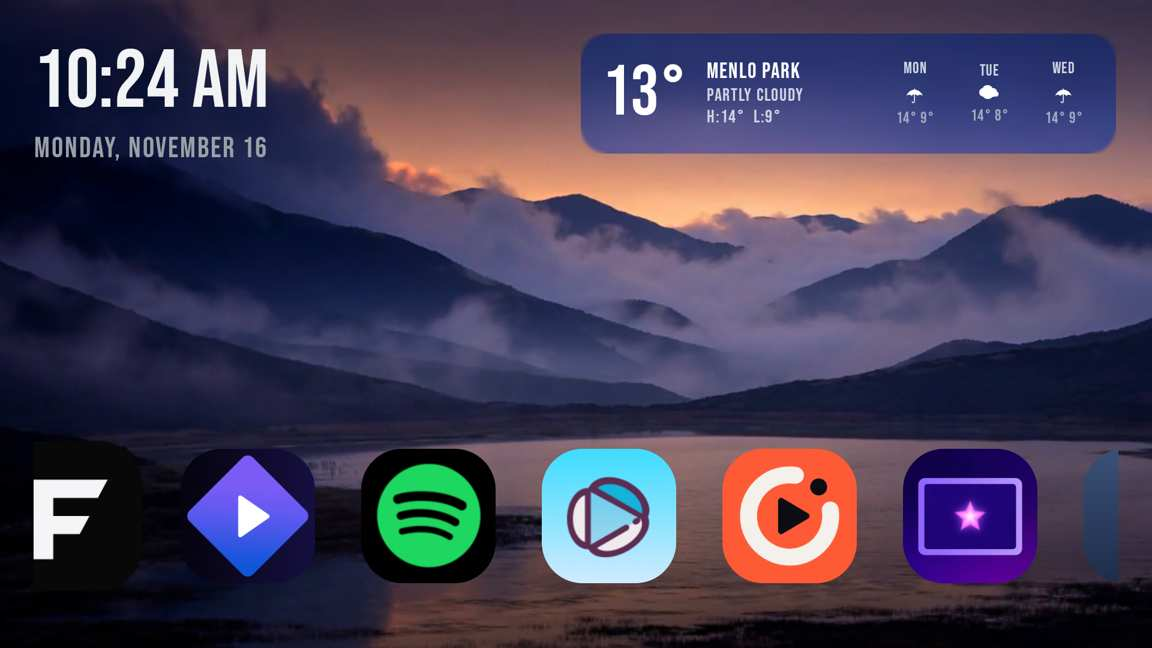
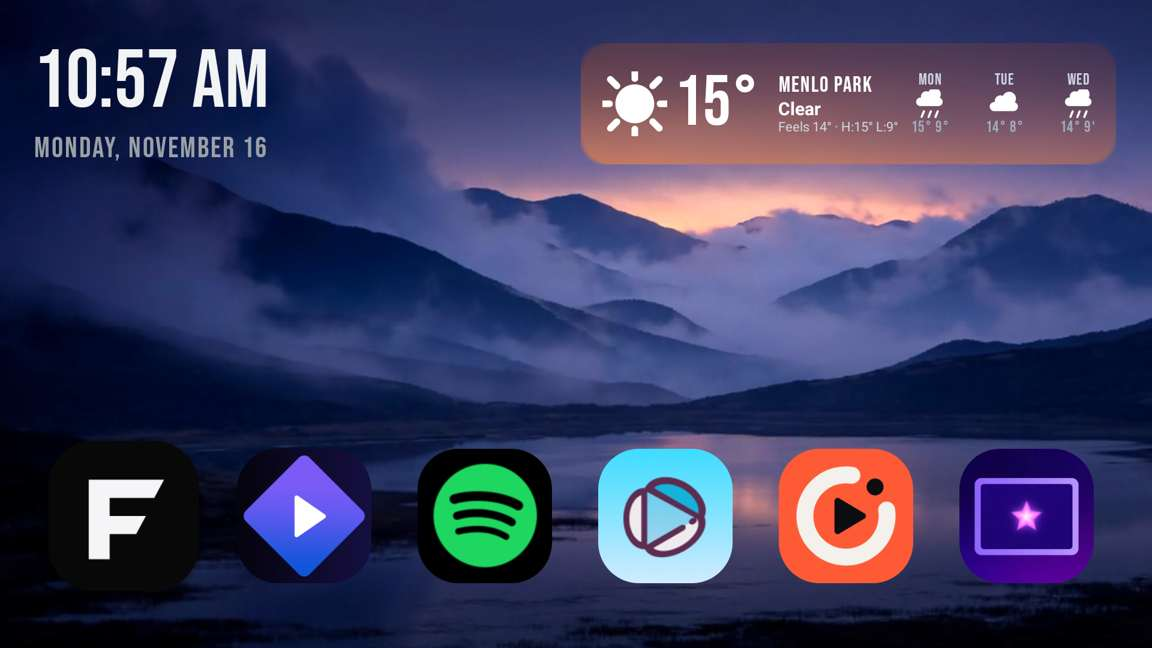
Weather widget: iPhone-style content, card height matched to clock

diff --git a/app/src/main/java/com/hodor/launcher/widgets/WeatherWidget.java b/app/src/main/java/com/hodor/launcher/widgets/WeatherWidget.java
@@ -36,21 +36,24 @@ import java.util.Locale;
 /**
  * Weather widget — a self-contained bundle. It queries Open-Meteo
  * itself (no API key), on its own thread, every 30 minutes while the
- * launcher is in the foreground, and renders a frosted card: big
- * temperature, place / condition / hi-lo, then three forecast
- * columns. On any fetch failure it simply keeps the last good data
- * on screen.
+ * launcher is in the foreground, and renders a frosted card: a
+ * pictogram and big temperature, place / condition / feels-like,
+ * then three forecast columns. On any fetch failure it simply
+ * keeps the last good data on screen.
  *
- * Design (2026-11-16): anchored in the top-right corner
- * itself (the settings gear that used to sit there is now a tile in
- * the overflow section), balancing the clock across the top of the
- * screen.
- * Type is Bebas Neue throughout — the launcher's own face — with the
- * date line's letterspaced caps, so the card reads as part of the
- * launcher. The frost is real: the card's background is a blurred,
- * tinted snapshot of the live background video behind it, refreshed
- * every 15 seconds, edges feathered so the card melts into the
- * scene while staying clearly present.
+ * Design (2026-11-16): anchored in the top-right corner itself
+ * (the settings gear that used to sit there is now a tile in the
+ * overflow section), balancing the clock across the top of the
+ * screen. The content follows the iOS Weather widget's clarity
+ * (reference photo, 2026-11-16): filled white pictograms drawn
+ * on canvas instead of unicode glyphs, the condition in a bold
+ * sans sentence case, and a Feels-like line. Temperature and
+ * place stay Bebas Neue — the launcher's own face — so the card
+ * still reads as part of the launcher. The frost is real: the
+ * card's background is a blurred, tinted snapshot of the live
+ * background video behind it, refreshed every 15 seconds, edges
+ * feathered so the card melts into the scene while staying
+ * clearly present.
  *
  * Occupies 2x1 cells (446x100dp).
  */
@@ -64,7 +67,7 @@ public class WeatherWidget extends Widget {
     private static final long FROST_MS = 15 * 1000L;
     private static final String API =
         "https://api.open-meteo.com/v1/forecast?latitude=" + LAT + "&longitude=" + LON
-        + "&current=temperature_2m,weather_code"
+        + "&current=temperature_2m,apparent_temperature,weather_code"
         + "&daily=temperature_2m_max,temperature_2m_min,weather_code"
         + "&forecast_days=3&timezone=America%2FLos_Angeles";
 
@@ -83,9 +86,10 @@ public class WeatherWidget extends Widget {
     private volatile boolean frostBusy;
 
     private LinearLayout cardView;
+    private WeatherIcon iconView;
     private TextView tempView, placeView, condView, hiloView;
     private final TextView[] dayViews = new TextView[3];
-    private final TextView[] glyphViews = new TextView[3];
+    private final WeatherIcon[] dayIcons = new WeatherIcon[3];
     private final TextView[] rangeViews = new TextView[3];
 
     public WeatherWidget(Context ctx) {
@@ -97,6 +101,17 @@ public class WeatherWidget extends Widget {
     @Override public int colSpan() { return 2; }
     @Override public int rowSpan() { return 1; }
     @Override public int anchor() { return ANCHOR_TOP_RIGHT; }
+
+    // The drawn card frames the clock block's measured glyph
+    // extent (TV frame, 2026-11-16: time glyphs 40.5dp, date
+    // glyphs end 133dp) with ~4dp of air on each side, so the two
+    // header blocks read as one uniform band. (An exact-extent
+    // 93dp card read as shorter than the clock — the frost's
+    // feathered edge eats ~2dp of visible body per side.)
+    // Placement stays cell-based. Re-measure if the clock's
+    // type sizes change.
+    @Override public int topInsetDp() { return 8; }
+    @Override public int heightDp() { return 101; }
 
     // ---- view ------------------------------------------------------
 
@@ -113,7 +128,15 @@ public class WeatherWidget extends Widget {
         card.setBackground(flat);
         cardView = card;
 
+        iconView = new WeatherIcon(ctx);
+        iconView.setLayoutParams(new LinearLayout.LayoutParams(dp(54), dp(54)));
+        card.addView(iconView);
+
         tempView = text("––°", 59, bebas, TEXT);
+        LinearLayout.LayoutParams tempLp = new LinearLayout.LayoutParams(
+            LinearLayout.LayoutParams.WRAP_CONTENT, LinearLayout.LayoutParams.WRAP_CONTENT);
+        tempLp.setMargins(dp(6), 0, 0, 0);
+        tempView.setLayoutParams(tempLp);
         card.addView(tempView);
 
         LinearLayout stack = new LinearLayout(ctx);
@@ -124,10 +147,9 @@ public class WeatherWidget extends Widget {
         stack.setLayoutParams(stackLp);
         placeView = text(PLACE.toUpperCase(Locale.US), 18, bebas, TEXT);
         placeView.setLetterSpacing(0.06f);
-        condView = text(" ", 15, bebas, TEXT_DIM);
-        condView.setLetterSpacing(0.06f);
-        hiloView = text(" ", 15, bebas, TEXT_DIM);
-        hiloView.setLetterSpacing(0.06f);
+        condView = text(" ", 15, Typeface.SANS_SERIF, TEXT);
+        condView.setTypeface(Typeface.SANS_SERIF, Typeface.BOLD);
+        hiloView = text(" ", 11, Typeface.SANS_SERIF, TEXT_DIM);
         stack.addView(placeView);
         stack.addView(condView);
         stack.addView(hiloView);
@@ -149,13 +171,13 @@ public class WeatherWidget extends Widget {
             dayViews[i] = text(" ", 13, bebas, TEXT_DIM);
             dayViews[i].setGravity(Gravity.CENTER);
             dayViews[i].setLetterSpacing(0.06f);
-            glyphViews[i] = text(" ", 19, Typeface.SANS_SERIF, TEXT);
-            glyphViews[i].setGravity(Gravity.CENTER);
+            dayIcons[i] = new WeatherIcon(ctx);
+            dayIcons[i].setLayoutParams(new LinearLayout.LayoutParams(dp(24), dp(24)));
             rangeViews[i] = text(" ", 13, bebas, TEXT_FAINT);
             rangeViews[i].setGravity(Gravity.CENTER);
             rangeViews[i].setLetterSpacing(0.06f);
             col.addView(dayViews[i]);
-            col.addView(glyphViews[i]);
+            col.addView(dayIcons[i]);
             col.addView(rangeViews[i]);
             card.addView(col);
         }
@@ -221,6 +243,7 @@ public class WeatherWidget extends Widget {
             JSONArray min = daily.getJSONArray("temperature_2m_min");
             JSONArray codes = daily.getJSONArray("weather_code");
             final int temp = (int) Math.round(cur.getDouble("temperature_2m"));
+            final int feels = (int) Math.round(cur.getDouble("apparent_temperature"));
             final int code = cur.getInt("weather_code");
             final String[] days = new String[3];
             final int[] his = new int[3], los = new int[3], dayCodes = new int[3];
@@ -234,12 +257,13 @@ public class WeatherWidget extends Widget {
                 dayCodes[i] = codes.getInt(i);
             }
             main.post(() -> {
+                iconView.setCode(code);
                 tempView.setText(temp + "°");
-                condView.setText(condition(code).toUpperCase(Locale.US));
-                hiloView.setText("H:" + his[0] + "°  L:" + los[0] + "°");
+                condView.setText(sentence(condition(code)));
+                hiloView.setText("Feels " + feels + "° · H:" + his[0] + "° L:" + los[0] + "°");
                 for (int i = 0; i < 3; i++) {
                     dayViews[i].setText(days[i]);
-                    glyphViews[i].setText(glyph(dayCodes[i]));
+                    dayIcons[i].setCode(dayCodes[i]);
                     rangeViews[i].setText(his[i] + "° " + los[i] + "°");
                 }
             });
@@ -427,15 +451,115 @@ public class WeatherWidget extends Widget {
         }
     }
 
-    private static String glyph(int code) {
-        switch (code) {
-            case 0: case 1: return "☀";
-            case 95: case 96: case 99: return "⚡";
-            case 71: case 73: case 75: case 77: case 85: case 86: return "❄";
-            case 51: case 53: case 55: case 56: case 57:
-            case 61: case 63: case 65: case 66: case 67:
-            case 80: case 81: case 82: return "☂";
-            default: return "☁";
+    /** "Mainly Clear" -> "Mainly clear" (iOS-widget sentence case). */
+    private static String sentence(String s) {
+        if (s == null || s.length() < 2) return s;
+        return s.substring(0, 1) + s.substring(1).toLowerCase(Locale.US);
+    }
+
+    /**
+     * Filled white weather pictogram, drawn on canvas — the iOS
+     * Weather widget's icon language (sun, cloud, rain, snow,
+     * thunder, fog) instead of unicode glyphs, which rendered thin
+     * and inconsistent at TV distance. Same shapes as the preview
+     * harness's draw_icon.
+     */
+    static class WeatherIcon extends View {
+        private int code = -1;
+        private final Paint fill = new Paint(Paint.ANTI_ALIAS_FLAG);
+        private final Paint stroke = new Paint(Paint.ANTI_ALIAS_FLAG);
+
+        WeatherIcon(Context ctx) {
+            super(ctx);
+            fill.setColor(Color.WHITE);
+            fill.setStyle(Paint.Style.FILL);
+            stroke.setColor(Color.WHITE);
+            stroke.setStyle(Paint.Style.STROKE);
+            stroke.setStrokeCap(Paint.Cap.ROUND);
+        }
+
+        void setCode(int c) {
+            if (c != code) {
+                code = c;
+                invalidate();
+            }
+        }
+
+        @Override
+        protected void onDraw(Canvas canvas) {
+            if (code < 0) return;
+            float s = Math.min(getWidth(), getHeight());
+            float cx = getWidth() / 2f, cy = getHeight() / 2f;
+            switch (code) {
+                case 0:
+                    sun(canvas, cx, cy, s * 0.30f);
+                    break;
+                case 1: case 2:
+                    sun(canvas, cx - s * 0.20f, cy - s * 0.20f, s * 0.20f);
+                    cloud(canvas, cx + s * 0.06f, cy + s * 0.14f, s * 0.78f);
+                    break;
+                case 45: case 48:
+                    cloud(canvas, cx, cy - s * 0.12f, s * 0.92f);
+                    stroke.setStrokeWidth(Math.max(2f, s * 0.07f));
+                    canvas.drawLine(cx - s * 0.30f, cy + s * 0.30f,
+                        cx + s * 0.30f, cy + s * 0.30f, stroke);
+                    canvas.drawLine(cx - s * 0.30f, cy + s * 0.46f,
+                        cx + s * 0.30f, cy + s * 0.46f, stroke);
+                    break;
+                case 71: case 73: case 75: case 77: case 85: case 86:
+                    cloud(canvas, cx, cy - s * 0.16f, s * 0.92f);
+                    for (float dx : new float[]{-0.24f, 0f, 0.24f}) {
+                        canvas.drawCircle(cx + s * dx, cy + s * 0.36f, s * 0.055f, fill);
+                    }
+                    break;
+                case 95: case 96: case 99: {
+                    cloud(canvas, cx, cy - s * 0.18f, s * 0.92f);
+                    float bx = cx + s * 0.02f, by = cy + s * 0.16f;
+                    android.graphics.Path bolt = new android.graphics.Path();
+                    bolt.moveTo(bx + s * 0.10f, by);
+                    bolt.lineTo(bx - s * 0.12f, by + s * 0.30f);
+                    bolt.lineTo(bx - s * 0.01f, by + s * 0.30f);
+                    bolt.lineTo(bx - s * 0.10f, by + s * 0.52f);
+                    bolt.lineTo(bx + s * 0.14f, by + s * 0.20f);
+                    bolt.lineTo(bx + s * 0.03f, by + s * 0.20f);
+                    bolt.close();
+                    canvas.drawPath(bolt, fill);
+                    break;
+                }
+                case 51: case 53: case 55: case 56: case 57:
+                case 61: case 63: case 65: case 66: case 67:
+                case 80: case 81: case 82:
+                    cloud(canvas, cx, cy - s * 0.16f, s * 0.92f);
+                    stroke.setStrokeWidth(Math.max(2f, s * 0.075f));
+                    for (float dx : new float[]{-0.24f, 0f, 0.24f}) {
+                        canvas.drawLine(cx + s * dx + s * 0.05f, cy + s * 0.26f,
+                            cx + s * dx - s * 0.03f, cy + s * 0.46f, stroke);
+                    }
+                    break;
+                default:
+                    cloud(canvas, cx, cy, s * 0.98f);
+            }
+        }
+
+        private void sun(Canvas canvas, float cx, float cy, float r) {
+            stroke.setStrokeWidth(Math.max(2f, r * 0.34f));
+            for (int k = 0; k < 8; k++) {
+                double a = Math.toRadians(k * 45);
+                canvas.drawLine(
+                    cx + (float) Math.cos(a) * r * 1.3f, cy + (float) Math.sin(a) * r * 1.3f,
+                    cx + (float) Math.cos(a) * r * 1.78f, cy + (float) Math.sin(a) * r * 1.78f,
+                    stroke);
+            }
+            canvas.drawCircle(cx, cy, r, fill);
+        }
+
+        private void cloud(Canvas canvas, float cx, float cy, float w) {
+            float h = w * 0.62f;
+            canvas.drawCircle(cx - w * 0.12f, cy - h * 0.16f, w * 0.20f, fill);
+            canvas.drawCircle(cx + w * 0.19f, cy - h * 0.30f, w * 0.24f, fill);
+            RectF base = new RectF(cx - w * 0.5f, cy - h * 0.10f,
+                cx + w * 0.5f, cy + h * 0.42f);
+            canvas.drawRoundRect(base, h * 0.30f, h * 0.30f, fill);
         }
     }
 }

diff --git a/app/src/main/java/com/hodor/launcher/widgets/WidgetHost.java b/app/src/main/java/com/hodor/launcher/widgets/WidgetHost.java
@@ -146,7 +146,7 @@ public class WidgetHost extends FrameLayout {
 
     private void place(Widget w, int col, int row) {
         View v = w.view();
-        v.setLayoutParams(cellParams(w.colSpan(), w.rowSpan(), col, row));
+        v.setLayoutParams(cellParams(w, col, row));
         v.setFocusable(false);
         addView(v);
         placements.put(w.id(), new int[]{col, row});
@@ -170,14 +170,17 @@ public class WidgetHost extends FrameLayout {
         }
     }
 
-    private LayoutParams cellParams(int spanW, int spanH, int col, int row) {
+    private LayoutParams cellParams(Widget w, int col, int row) {
+        int spanW = w.colSpan(), spanH = w.rowSpan();
         int width = spanW * CELL_W_DP + (spanW - 1) * GUTTER_DP;
-        int height = spanH * CELL_H_DP + (spanH - 1) * GUTTER_DP;
+        int height = w.heightDp() > 0
+            ? w.heightDp()
+            : spanH * CELL_H_DP + (spanH - 1) * GUTTER_DP;
         LayoutParams lp = new LayoutParams(dp(width), dp(height));
         lp.gravity = Gravity.TOP | Gravity.START;
         lp.setMargins(
             dp(ORIGIN_X_DP + col * (CELL_W_DP + GUTTER_DP)),
-            dp(ORIGIN_Y_DP + row * (CELL_H_DP + GUTTER_DP)), 0, 0);
+            dp(ORIGIN_Y_DP + row * (CELL_H_DP + GUTTER_DP) + w.topInsetDp()), 0, 0);
         return lp;
     }
 
@@ -317,8 +320,7 @@ public class WidgetHost extends FrameLayout {
             if (cellsFree(ghostWidget, nc, nr)) {
                 ghostCol = nc;
                 ghostRow = nr;
-                ghost.setLayoutParams(cellParams(
-                    ghostWidget.colSpan(), ghostWidget.rowSpan(), nc, nr));
+                ghost.setLayoutParams(cellParams(ghostWidget, nc, nr));
             }
             return;
         }
@@ -329,7 +331,7 @@ public class WidgetHost extends FrameLayout {
         if (cellsFree(w, nc, nr)) {
             p[0] = nc;
             p[1] = nr;
-            v.setLayoutParams(cellParams(w.colSpan(), w.rowSpan(), nc, nr));
+            v.setLayoutParams(cellParams(w, nc, nr));
             save(w);
         }
     }
@@ -403,7 +405,7 @@ public class WidgetHost extends FrameLayout {
             LayoutParams.WRAP_CONTENT, LayoutParams.WRAP_CONTENT);
         labelLp.gravity = Gravity.CENTER;
         g.addView(label, labelLp);
-        g.setLayoutParams(cellParams(w.colSpan(), w.rowSpan(), ghostCol, ghostRow));
+        g.setLayoutParams(cellParams(w, ghostCol, ghostRow));
         addView(g);
         ghost = g;
         arm(g);

diff --git a/app/src/main/java/com/hodor/launcher/widgets/Widget.java b/app/src/main/java/com/hodor/launcher/widgets/Widget.java
@@ -49,6 +49,24 @@ public abstract class Widget {
         return ANCHOR_GRID;
     }
 
+    /**
+     * Extra top inset (dp) the host applies inside this widget's
+     * cells when laying out its view. Placement, collision and
+     * persistence stay purely cell-based; this only aligns the
+     * drawn body to neighbouring fixed UI. Default 0.
+     */
+    public int topInsetDp() {
+        return 0;
+    }
+
+    /**
+     * Drawn height (dp) for this widget's view, or -1 to fill its
+     * cells exactly. See {@link #topInsetDp()}.
+     */
+    public int heightDp() {
+        return -1;
+    }
+
     void bindBackground(TextureView tv) {
         backgroundView = tv;
     }

diff --git a/LAYOUT.md b/LAYOUT.md
@@ -32,6 +32,16 @@ drawn reference on 2026-11-16: see `docs/grid-reference.jpg`.
   rectangle from the shared constants (cell 218×100, gutter 10,
   origin x 28). No custom sizes or off-grid offsets; same span =
   same size, anywhere on screen. The host rejects off-grid spans.
+- One drawn-body exception (2026-11-16: "make it uniform,
+  however you achieve that"): the weather card's drawn body is
+  inset within its A3+A4 cells to frame the clock block's measured
+  glyph extent with ~4dp of air (top 36dp, height 101dp, vs the
+  row's 28/100), so the two header blocks read as one band. An
+  exact-extent card (93dp) read as shorter than the clock — the
+  frost's feathered edge eats visible body. Placement, collision
+  and persistence remain purely cell-based; the host exposes this
+  as Widget.topInsetDp()/heightDp() hooks, defaulting to exact
+  cell fill.
 - A widget may instead anchor TOP_RIGHT (2026-11-16):
   the top row's rightmost cells, computed from the same grid —
   a 2-wide widget lands exactly on A3+A4 (x 484, y 28). The
